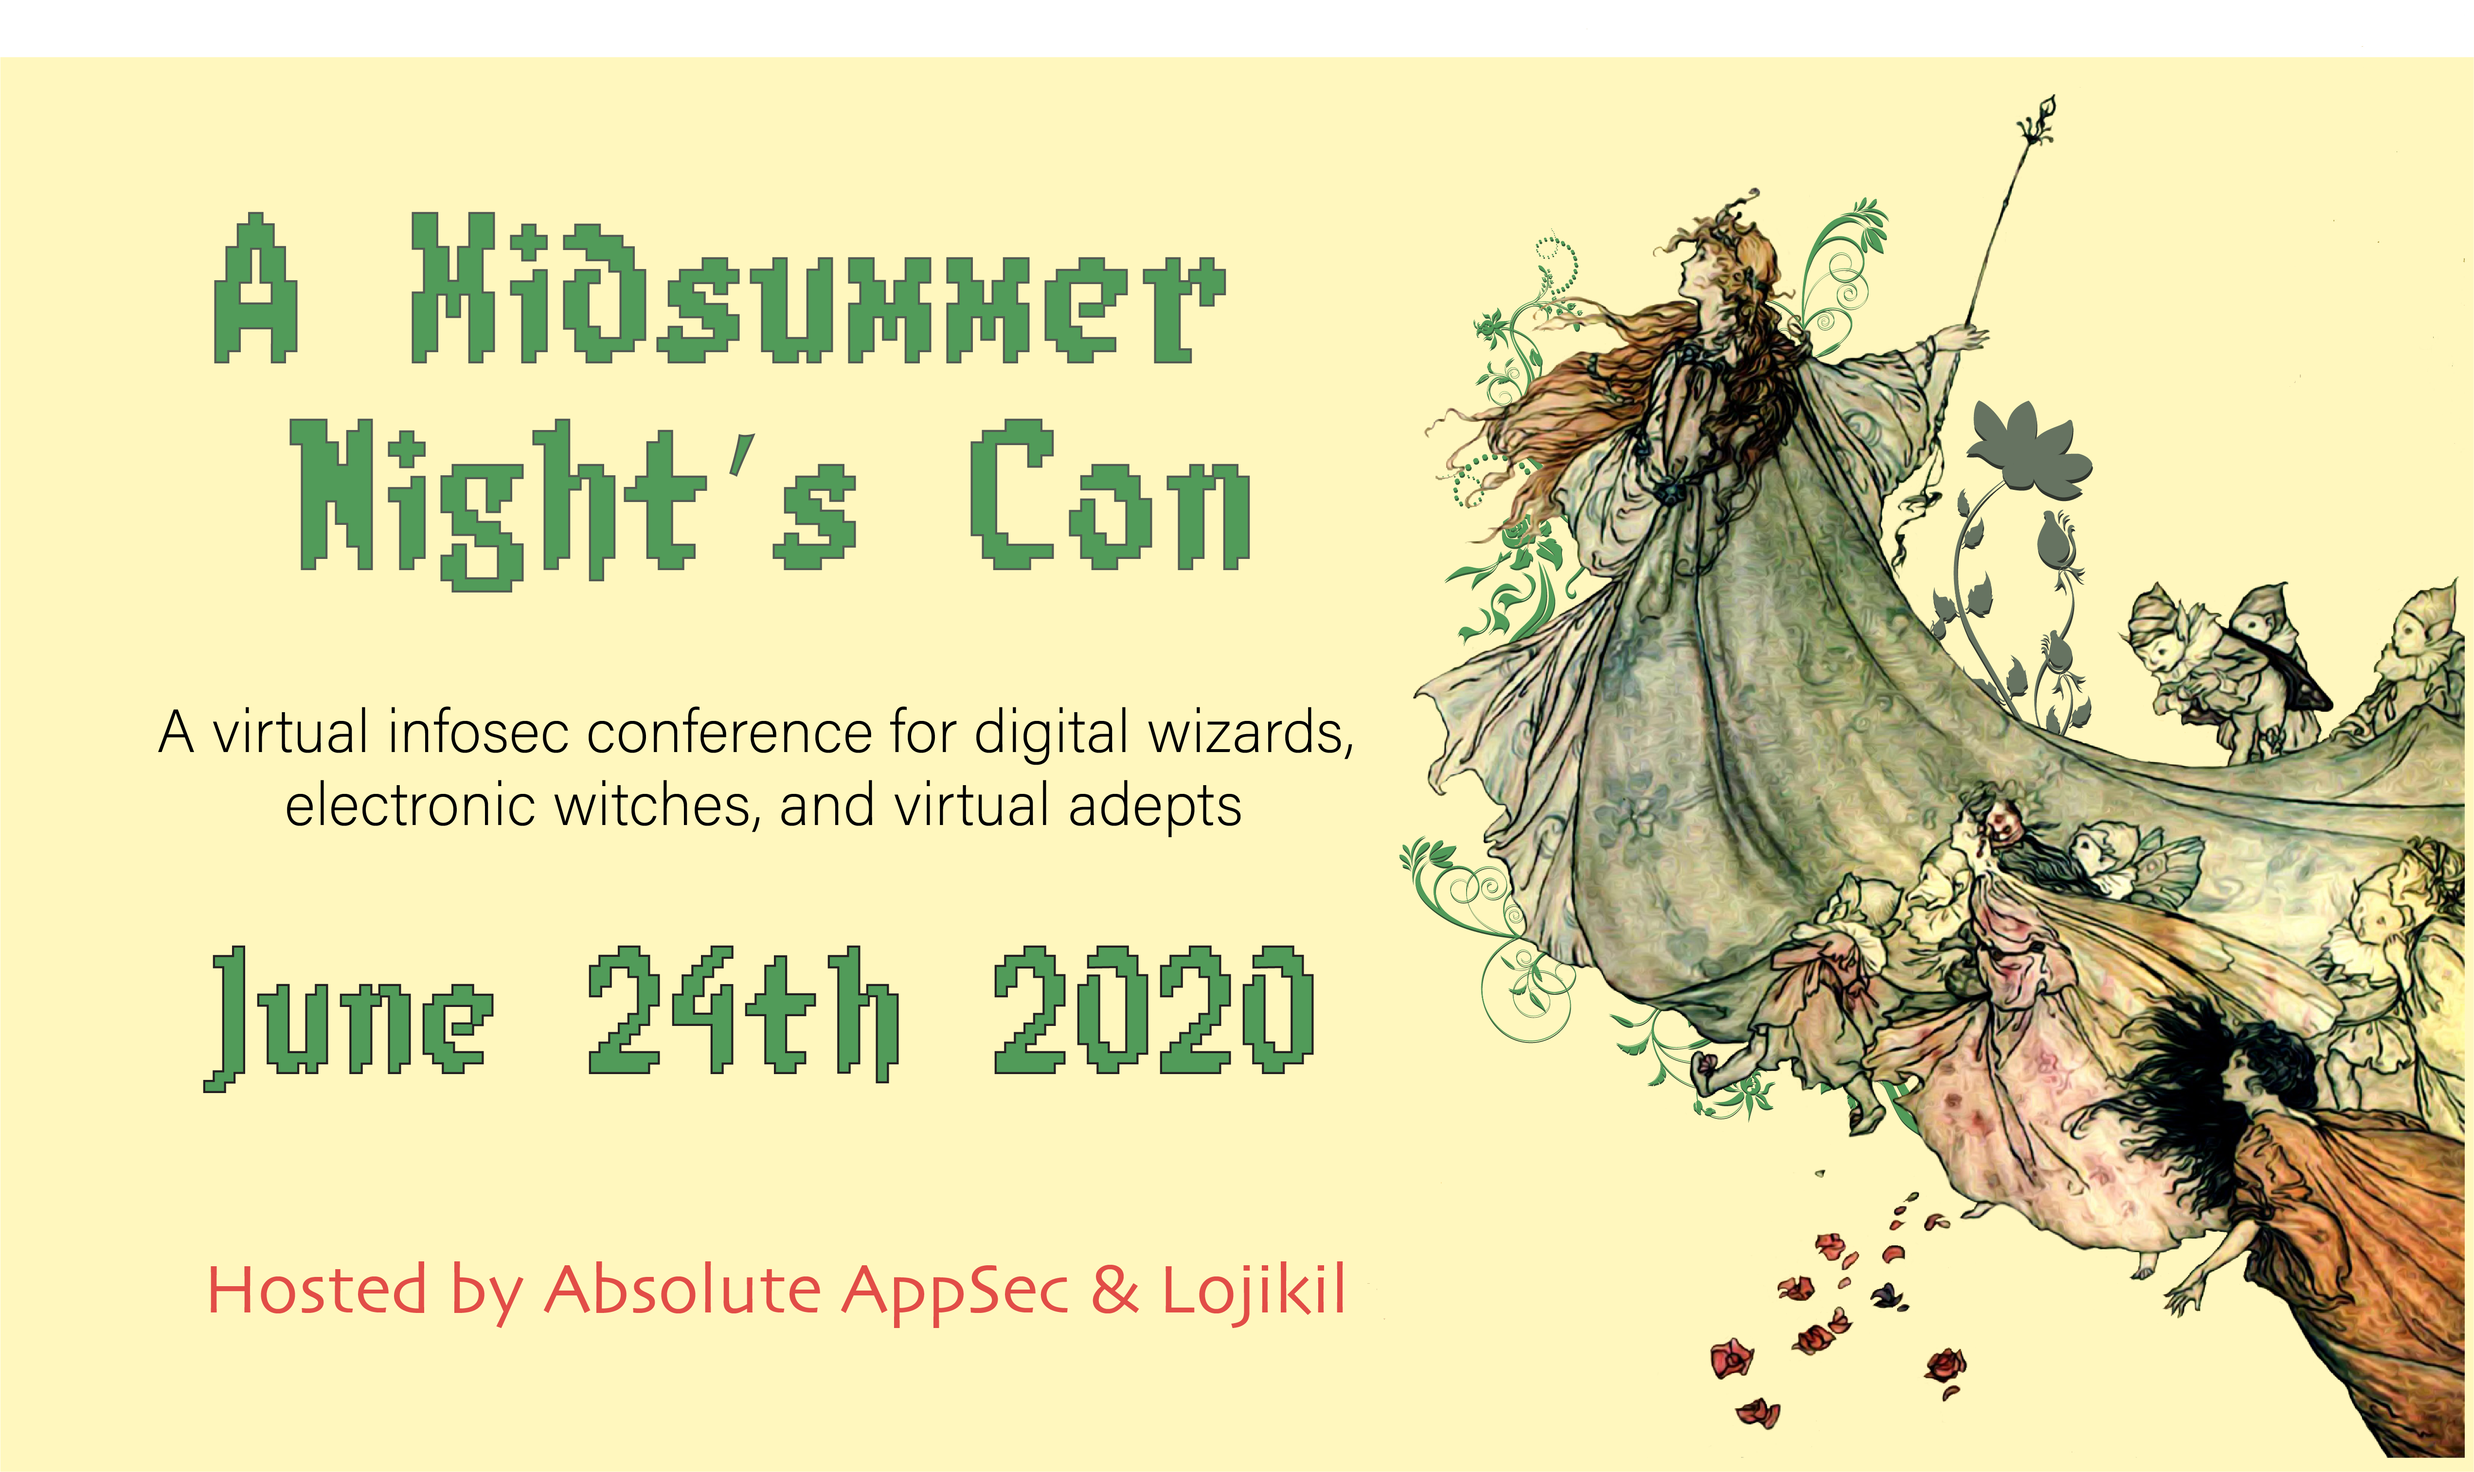
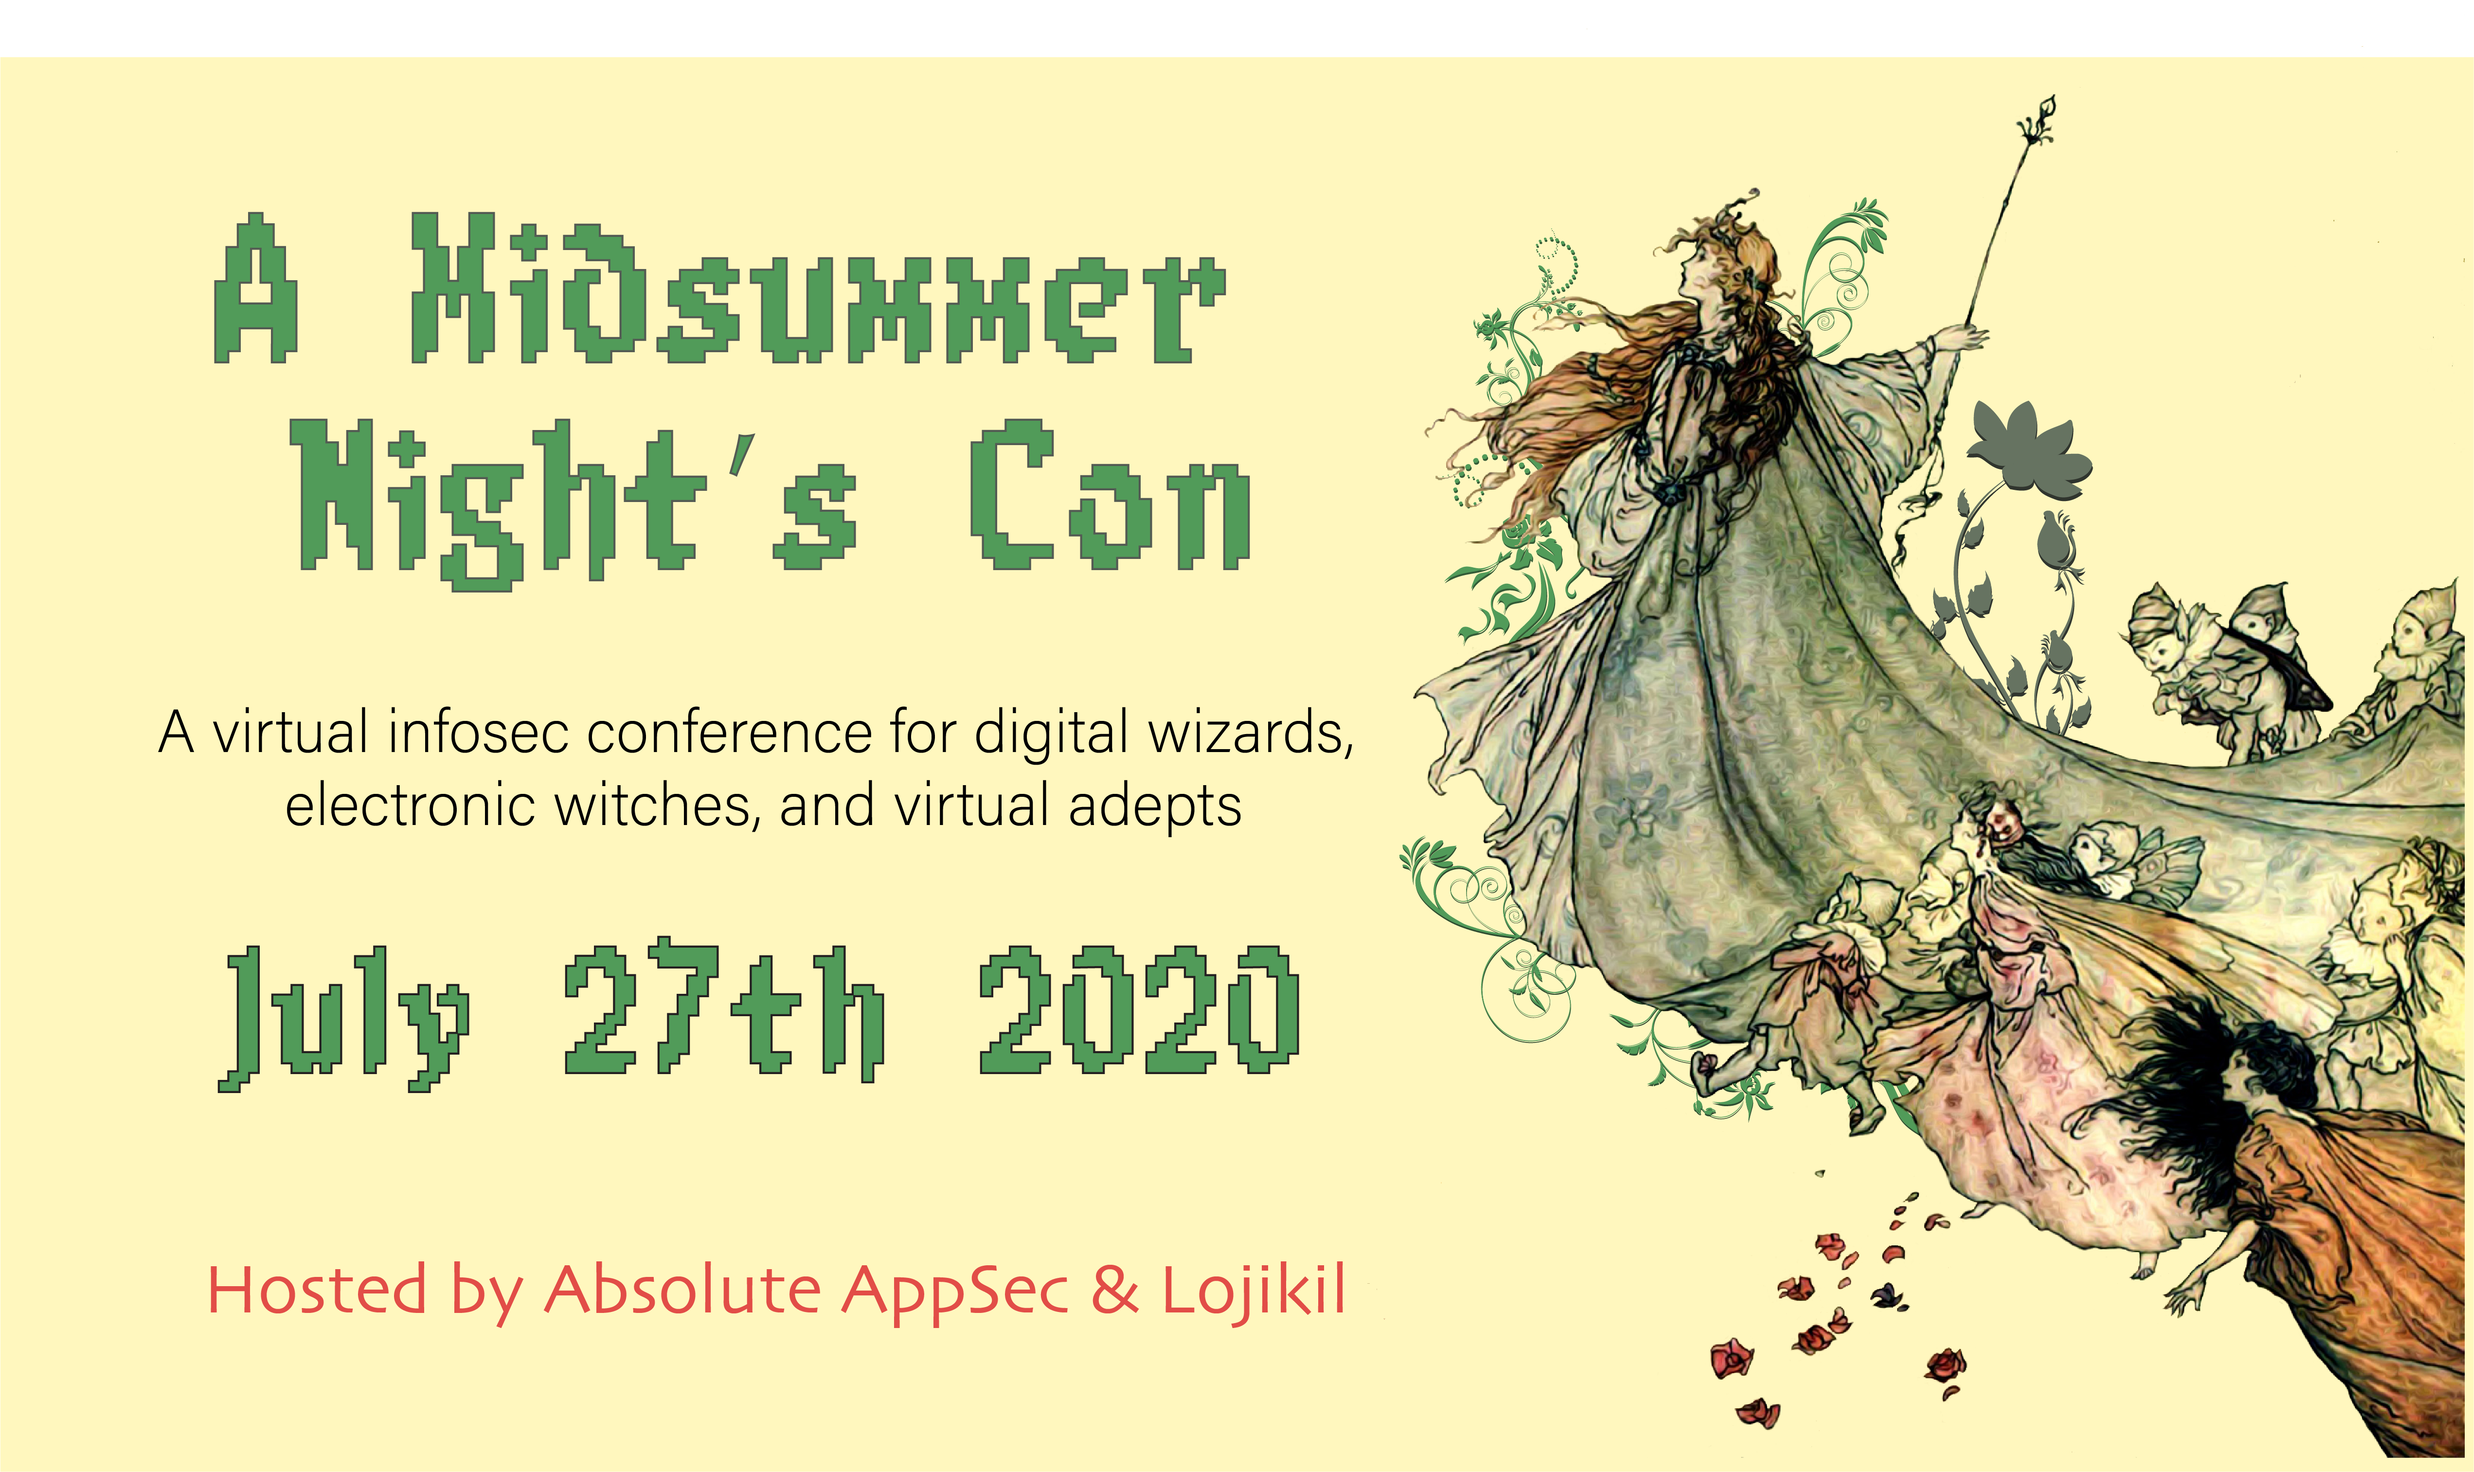
updates for july 27

Changed region(s): [[0.0621, 0.6213, 0.5281, 0.7455]]

diff --git a/cons/midsummer-2020/index.html b/cons/midsummer-2020/index.html
@@ -27,40 +27,28 @@
     </div>
     <h3 class="text-center">Schedule (all times US/East)</h3>
     <div class="row">
-        <h5>Lojikil - The Multician of Venice - 1530</h5><hr>
+        <h5>Lojikil - The Multician of Venice - 1600</h5><hr>
     </div>
     <div class="row">
-        <h5>Heather Lawrence // Infosé Canon - TBA - 1600</h5><hr>
+        <h5>Heather Lawrence // Infosé Canon - TBA - 1645</h5><hr>
     </div>
     <div class="row">
-        <h5>Suchi Pahi // CyberJediLawyer - TBA - 1630</h5><hr>
-    </div>
-    <div class="row">
-        <h5>Paul Kehrer // Reaper Hulk - TBA - 1700</h5><hr>
-    </div>
-    <div class="row">
-        <h5>Jean Yang - TBA - 1730</h5><hr>
-    </div>
-    <div class="row">
-        <h5>EFF Sing Along - TBA - 1800</h5><hr>
+        <h5>EFF Sing Along - TBA - 1730</h5><hr>
     </div>
     <div class="row">
         <h5>Intermission - The jester enters the court - </h5><hr>
     </div>
     <div class="row">
-        <h5>Carson Harmon - TBA - 1900</h5><hr>
+        <h5>Neil Matatall // ndm - TBA - 1830</h5><hr>
     </div>
     <div class="row">
-        <h5>Neil Matatall // ndm - TBA - 1930</h5><hr>
+        <h5>Jerry Gamblin - Kenna - 1915</h5><hr>
     </div>
     <div class="row">
-        <h5>Jerry Gamblin - Kenna - 2000</h5><hr>
+        <h5>Seth &amp; Ken - Live, On Ice - 2000</h5><hr>
     </div>
     <div class="row">
-        <h5>Seth &amp; Ken - Live, On Ice - 2030</h5><hr>
-    </div>
-    <div class="row">
-        <h5>Elle // ElleArmageddon - TBA - 2100</h5><hr>
+        <h5>Elle // ElleArmageddon - TBA - 2045</h5><hr>
     </div>
     <h3 class="text-center">Code of Conduct</h3>
     <div class="row">
